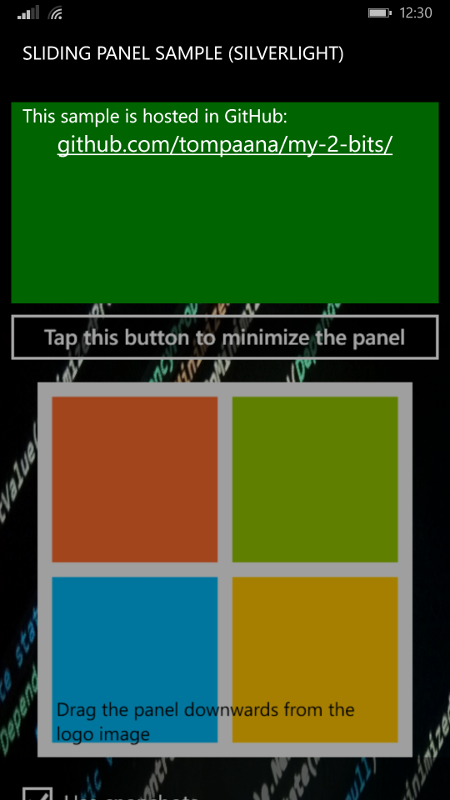
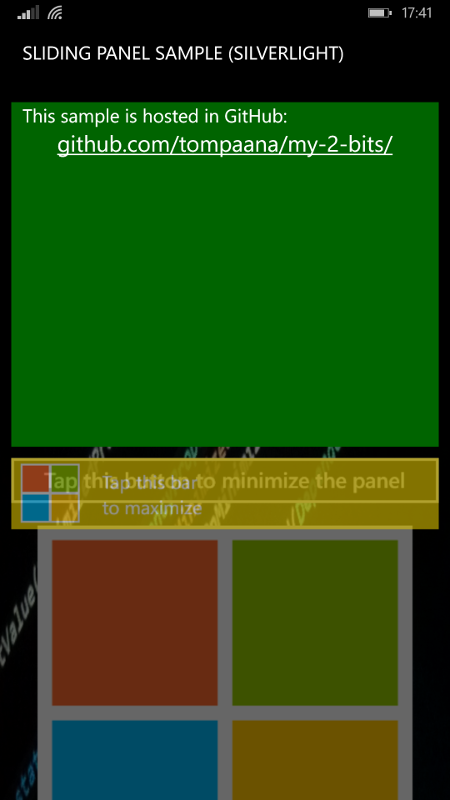
Added a third screenshot to Sliding Panel Sample.

diff --git a/README.md b/README.md
@@ -12,7 +12,8 @@ Tyler sort of way. No fear. No distractions. The ability to let that which does
 not matter truly slide."*
 
 ![Screenshot 1](https://raw.githubusercontent.com/tompaana/my-2-bits/master/SlidingPanelSample/Screenshots/SlidingPanelSampleSLScreenshot1Small.png)&nbsp;
-![Screenshot 2](https://raw.githubusercontent.com/tompaana/my-2-bits/master/SlidingPanelSample/Screenshots/SlidingPanelSampleSLScreenshot2Small.png)
+![Screenshot 2](https://raw.githubusercontent.com/tompaana/my-2-bits/master/SlidingPanelSample/Screenshots/SlidingPanelSampleSLScreenshot2Small.png)&nbsp;
+![Screenshot 3](https://raw.githubusercontent.com/tompaana/my-2-bits/master/SlidingPanelSample/Screenshots/SlidingPanelSampleSLScreenshot3Small.png)
 
 **Description:** A self-contained, custom user control, a panel that can be
 dragged and animated. Provides a performance optimization trick for Windows

diff --git a/SlidingPanelSample/README.md b/SlidingPanelSample/README.md
@@ -8,7 +8,8 @@ Phone Silverlight. The trick is not needed on newer platforms.
 **Supported platforms:** Windows Universal (Windows Store Apps and Windows Phone 8.1), Windows Phone Silverlight
 
 ![Screenshot 1](https://raw.githubusercontent.com/tompaana/my-2-bits/master/SlidingPanelSample/Screenshots/SlidingPanelSampleSLScreenshot1Small.png)&nbsp;
-![Screenshot 2](https://raw.githubusercontent.com/tompaana/my-2-bits/master/SlidingPanelSample/Screenshots/SlidingPanelSampleSLScreenshot2Small.png)
+![Screenshot 2](https://raw.githubusercontent.com/tompaana/my-2-bits/master/SlidingPanelSample/Screenshots/SlidingPanelSampleSLScreenshot2Small.png)&nbsp;
+![Screenshot 3](https://raw.githubusercontent.com/tompaana/my-2-bits/master/SlidingPanelSample/Screenshots/SlidingPanelSampleSLScreenshot3Small.png)
 
 
 I was working on a project and one of the tasks assigned to me was to create a
